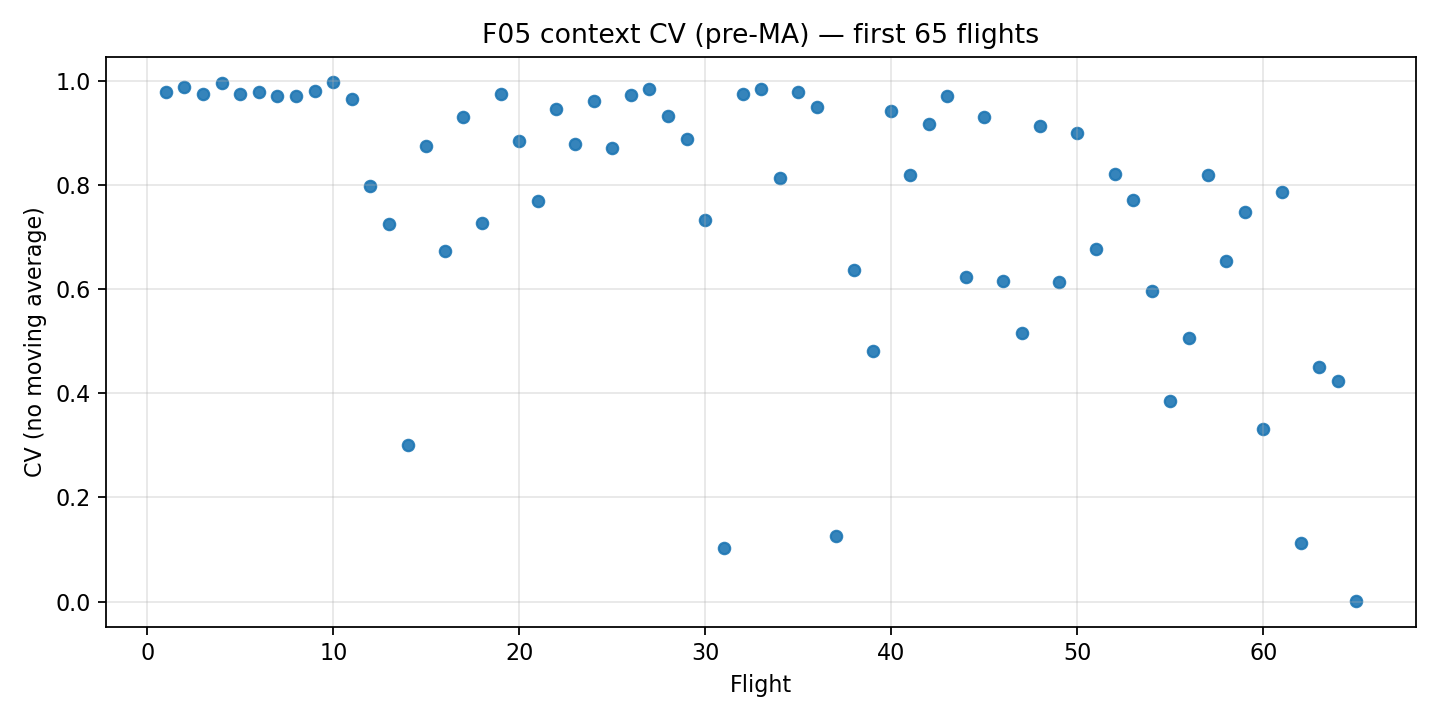
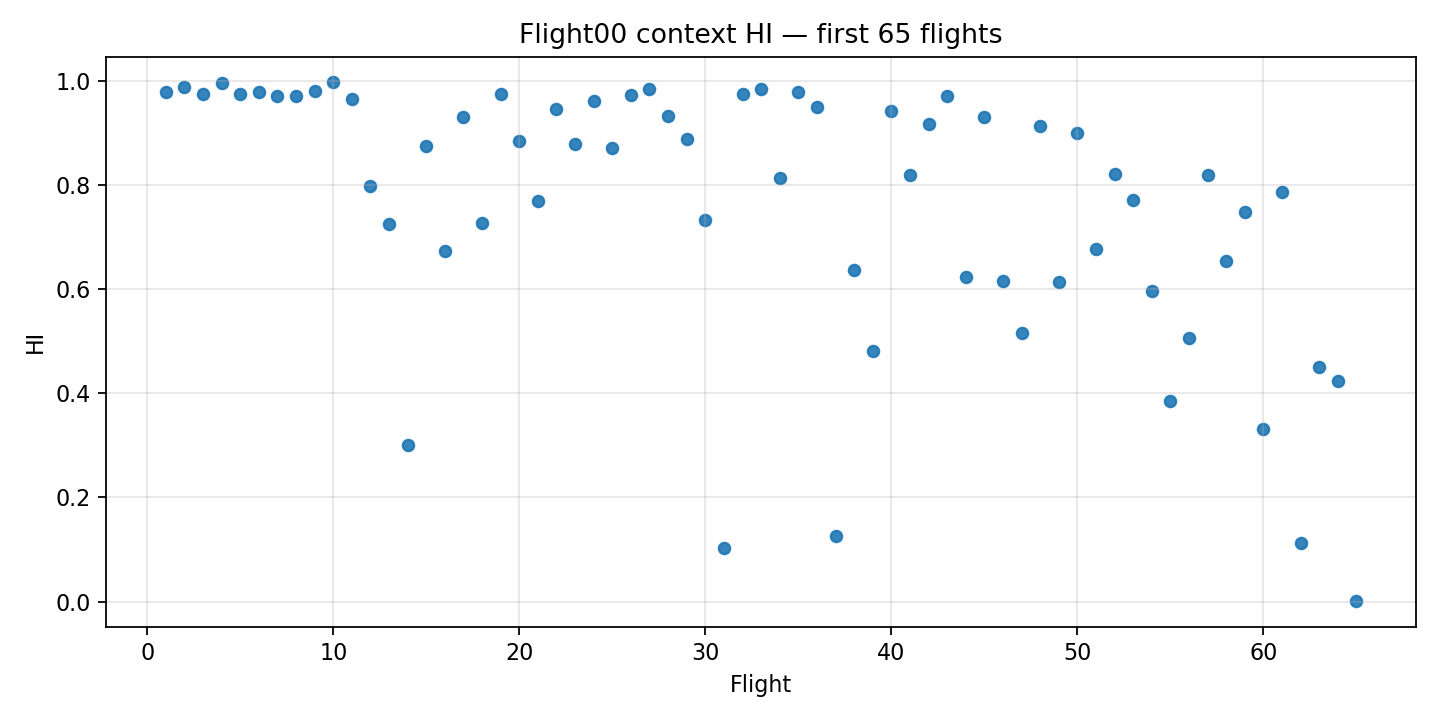
...

Changed region(s): [[0.3125, 0.0306, 0.7188, 0.0611], [0.0, 0.3056, 0.0312, 0.55], [0.0, 0.5806, 0.0312, 0.6111]]

diff --git a/02_landing_gear_HI_TSF.py b/02_landing_gear_HI_TSF.py
@@ -175,16 +175,16 @@ for RND in ["MA05", "MA10", "MA20", "MA30", "MA40", "MA50"]:
 ## ==== 5) 視覺化（全長 64 點，只畫 MA50 與三條預測）====
     plt.figure(figsize=(8, 5))
     # context（實際 MA50）
-    plt.plot(ctx_df.index.values, ctx_df[RND].values, label=f"{RND} (context)", linewidth=2)
+    plt.plot(ctx_df.index.values, ctx_df[RND].values, label=f"Context", linewidth=2)
 
     # 三條外推
     plt.plot(future_index, ar_pred,    "--", label="AR pred",    linewidth=2)
     plt.plot(future_index, gpr_pred,   "--", label="GPR pred",   linewidth=2)
     plt.plot(future_index, arima_pred, "--", label="ARIMA pred", linewidth=2)
 
-    plt.title(f"{ava} | {RND} context={N_CONTEXT} → forecast {N_HORIZON} (AR/GPR/ARIMA)")
+    plt.title(f"Flight00 | context={N_CONTEXT} → forecast {N_HORIZON} (AR/GPR/ARIMA)")
     plt.xlabel("Flight")
-    plt.ylabel(f"CV ({RND})")
+    plt.ylabel(f"HI")
     plt.grid(True, alpha=0.3)
     plt.legend()
     plt.tight_layout()
@@ -201,9 +201,9 @@ try:
 
     plt.figure(figsize=(9,4.5))
     plt.scatter(ctx_x, ctx_cv, s=26, alpha=0.9)
-    plt.title(f"{ava} context CV (pre-MA) — first {N_CONTEXT} flights")
+    plt.title(f"Flight00 context HI — first {N_CONTEXT} flights")
     plt.xlabel("Flight")
-    plt.ylabel("CV (no moving average)")
+    plt.ylabel("HI")
     plt.grid(True, alpha=0.3)
     plt.tight_layout()
 

diff --git a/06_eval_RUL.py b/06_eval_RUL.py
@@ -125,7 +125,7 @@ for MA in MA_LIST:
 
     # --- 畫圖：跟你原本一樣，只是檔名加 MA ---
     plt.figure(figsize=(10, 5))
-    plt.plot(fl_all, y_all, color="black", linewidth=3, label=f"Ground Truth ({MA})")
+    plt.plot(fl_all, y_all, color="black", linewidth=3, label=f"Ground Truth")
     plt.axvline(fl_ctx[-1], color="gray", linestyle=":", alpha=0.6)
     plt.axhline(THR, color="red", linestyle="--", alpha=0.7, label=f"Threshold {THR:.2f}")
 
@@ -141,9 +141,9 @@ for MA in MA_LIST:
             jitter = np.random.uniform(-0.02, 0.02)   # 在 THR 附近加擾動
             plt.scatter([fl_fut[idx]], [THR + jitter], s=70, marker="o", label=f"{m} crossing")
 
-    plt.title(f"F05 | RUL based on HI<={THR} ({MA})  ctx={N_CONTEXT}, horizon={H}")
+    plt.title(f"Flight00 | RUL based on HI<={THR} context={N_CONTEXT}, horizon={H}")
     plt.xlabel("Flight")
-    plt.ylabel(f"CV ({MA})")
+    plt.ylabel("HI")
     plt.grid(True, alpha=0.3)
     plt.legend()
     plt.tight_layout()

diff --git a/07_eval_zero_shot_models.py b/07_eval_zero_shot_models.py
@@ -93,9 +93,9 @@ for MA in MA_LIST:
     if pred_chr is not None: plt.plot(future_x, pred_chr, "--", label="Chronos")
     if pred_ttm is not None: plt.plot(future_x, pred_ttm, "--", label="TTMs")
 
-    plt.title(f"F05 | {N_CONTEXT}-context + {N_HORIZON}-forecast ({MA})")
+    plt.title(f"Flight00 | {N_CONTEXT}-context + {N_HORIZON}-forecast")
     plt.xlabel("Flight")
-    plt.ylabel(f"CV ({MA})")
+    plt.ylabel(f"HI")
     plt.legend()
     plt.grid(True, alpha=0.3)
     plt.tight_layout()
